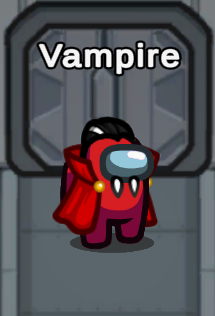
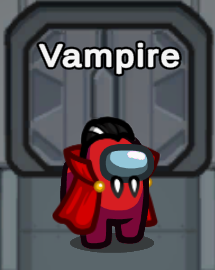
:art: remove vampire title and crop image

diff --git a/README.md b/README.md
@@ -203,7 +203,7 @@ are hidden and all players have the same color.\
 | Camo Duration | Time players stay camouflaged
 -----------------------
 
-## Vampire ![Vampire](./Images/roles/vampire.png)
+## ![Vampire](./Images/roles/vampire.png)
 ### **Team: Impostors**
 The Vampire is an Impostor, that can bite other player. Bitten players die after a configurable amount of time.\
 If the Vampire spawn chance is greater 0 (even if there is no Vampire in the game), all players can place one garlic.\
